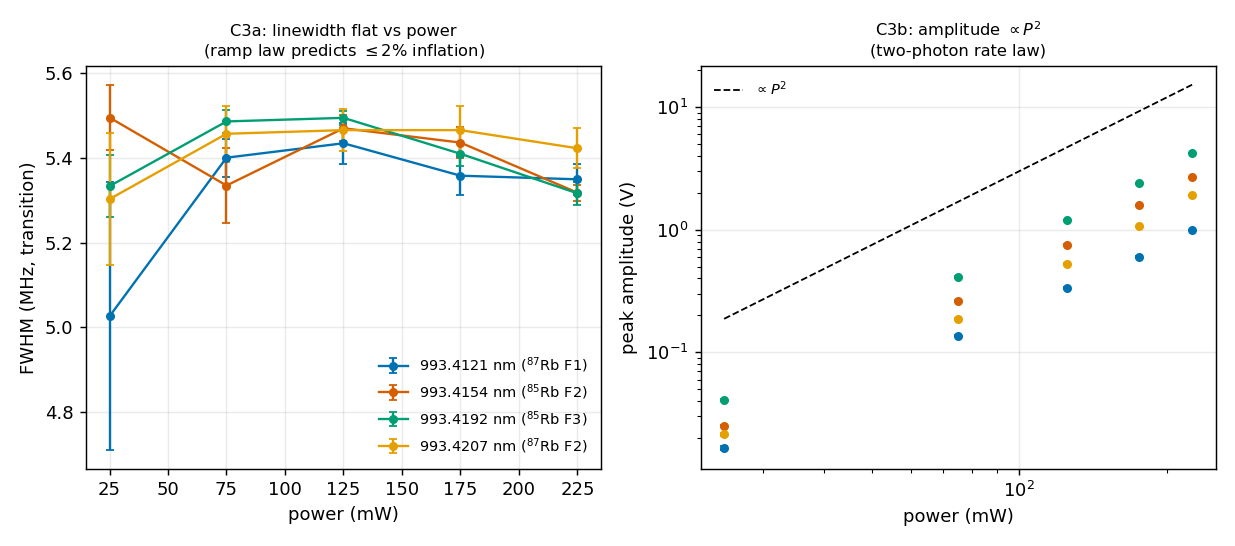
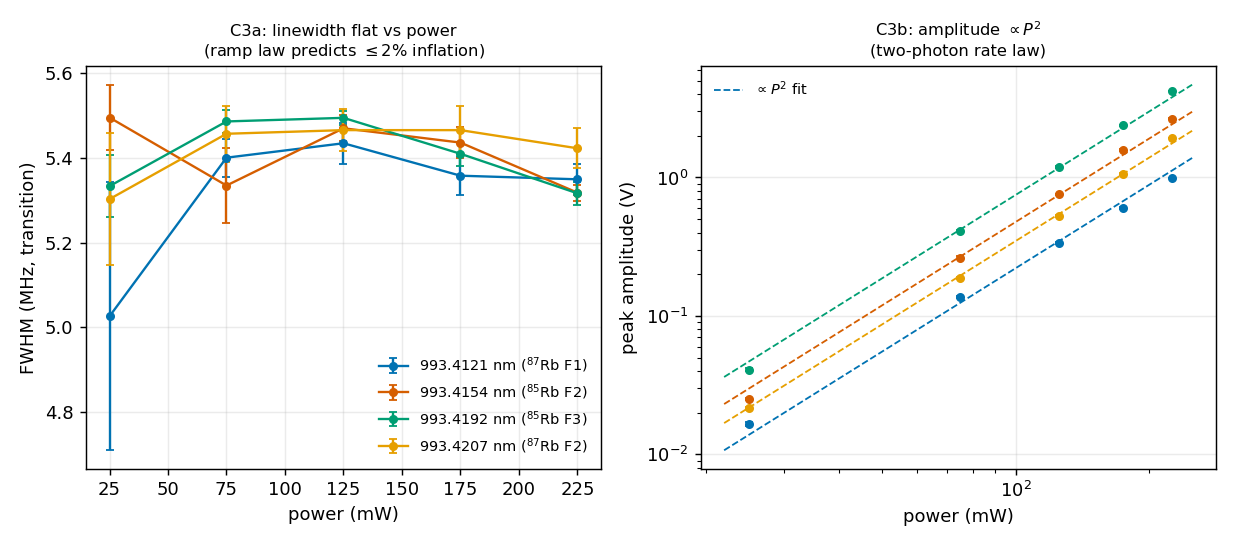
Fix the P^2 panel of the power-sweep figure
The amplitude-versus-power panel drew a single slope-2 reference line with an
arbitrary prefactor, so it floated above the data instead of tracking it. Replace
it with a slope-2 (P^2) fit anchored to each peak's own points, one per peak, so
the guide passes through the data it describes.

diff --git a/scripts/make_figures.py b/scripts/make_figures.py
@@ -97,9 +97,17 @@ def fig_power_sweep():
     a1.set_xlabel("power (mW)"); a1.set_ylabel("FWHM (MHz, transition)")
     a1.set_title("C3a: linewidth flat vs power\n(ramp law predicts $\\leq$2% inflation)", fontsize=9)
     a1.legend(fontsize=8)
-    # amplitude log-log with a slope-2 guide
+    # amplitude log-log: a slope-2 (P^2) fit anchored to each peak's own data, so
+    # the guide tracks the points instead of floating beside them
     a2.set_xscale("log"); a2.set_yscale("log")
-    P0 = np.array([25, 225]); a2.plot(P0, 3e-4 * P0 ** 2, "k--", lw=1, label="$\\propto P^2$")
+    Pline = np.array([22.0, 250.0])
+    for i, peak in enumerate(("4121", "4154", "4192", "4207")):
+        d = sorted(by[peak])
+        P = np.array([x[0] for x in d], float)
+        A = np.array([x[3] for x in d], float)
+        logk = np.mean(np.log10(A) - 2.0 * np.log10(P))  # least-squares slope-2 intercept
+        a2.plot(Pline, 10 ** logk * Pline ** 2, "--", color=PEAK_COLOR[peak], lw=1.0,
+                label=r"$\propto P^2$ fit" if i == 0 else None)
     a2.set_xlabel("power (mW)"); a2.set_ylabel("peak amplitude (V)")
     a2.set_title("C3b: amplitude $\\propto P^2$\n(two-photon rate law)", fontsize=9)
     a2.legend(fontsize=8)